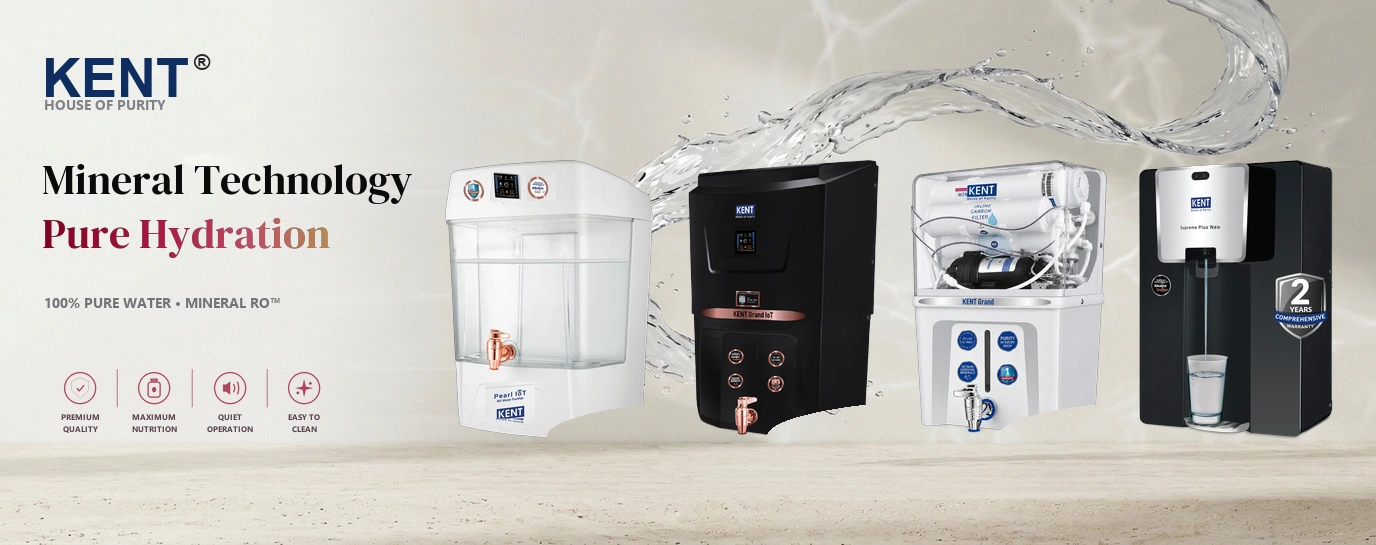
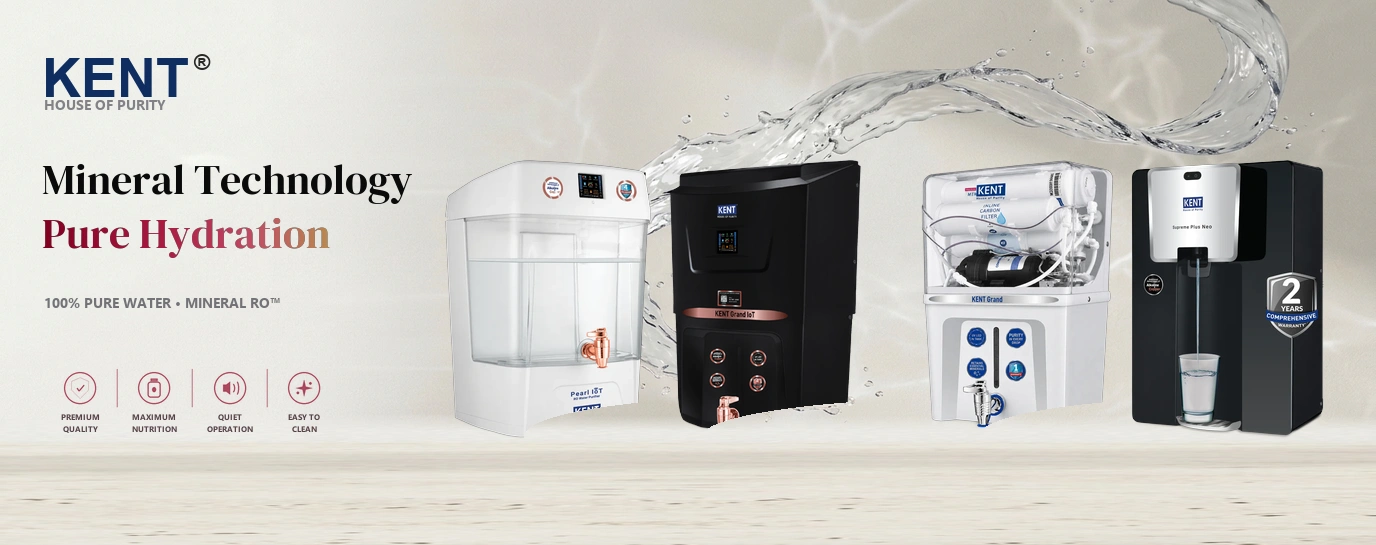
fix(hero): restore 100% wholesome uncropped purifier images on clean travertine floor

Changed region(s): [[0.25, 0.2807, 1.0, 1.0], [0.0938, 0.967, 0.125, 0.9982]]

diff --git a/index.html b/index.html
@@ -140,7 +140,7 @@
                     <div class="detail-stage">
                         <div class="detail-stage-frame detail-stage-frame--poster">
                             <img class="detail-stage-poster" id="heroStagePoster"
-                                src="images/kent-purifiers-banner.webp?v=15.0" alt="KENT Water Purifiers lineup"
+                                src="images/kent-purifiers-banner.webp?v=16.0" alt="KENT Water Purifiers lineup"
                                 fetchpriority="high">
                         </div>
                     </div>

diff --git a/update_banner_tagline.py b/update_banner_tagline.py
@@ -4,37 +4,44 @@ from PIL import Image, ImageDraw, ImageFont
 WIDTH = 1376
 HEIGHT = 545
 
-# 1. Load Photorealistic Studio Background with Crystal Water Arc & Sunlit Caustics
-# Generated directly from user reference with all products, pedestals, and text removed.
+# 1. Background plate with clean travertine floor and realistic mid-air water arc
 plate_path = r'C:\Users\ADMIN\.gemini\antigravity\brain\c228a748-d79c-4230-b18c-69a39bc2446e\purifier_background_plate_flat_floor_1795120218808.jpg'
-if not os.path.exists(plate_path):
-    # Fallback to local copy if available
-    plate_path = 'purifier_background_plate_flat_floor.jpg'
-
 bg_raw = Image.open(plate_path).convert('RGB')
-# Resize smoothly to the target banner dimensions (1376 x 545)
-bg = bg_raw.resize((WIDTH, HEIGHT), Image.Resampling.LANCZOS).convert('RGBA')
+bg = bg_raw.resize((WIDTH, HEIGHT), Image.Resampling.LANCZOS)
 
-# 2. Extract & Place the 4 UNTOUCHED KENT RO Purifier Machines
-p_pearl = Image.open('images/kent-pearl-left.webp').convert('RGBA')
-p1_clean = p_pearl.crop((170, 61, 829, 932))
+# Create a seamless, unblemished travertine floor plane across the bottom (y >= 415)
+# so no water splash cuts through the bottom of the purifier units:
+sample = bg.crop((100, 415, 300, 545))
+stretched_floor = sample.resize((WIDTH, 130), Image.Resampling.LANCZOS)
 
-p_grand = Image.open('p_grand.png').convert('RGBA')
-p_grand_no_phone = p_grand.crop((111, 0, p_grand.width, p_grand.height))
-p2_clean = p_grand_no_phone.crop((0, 9, 259, 387))
+mask = Image.new('L', (WIDTH, 130), 255)
+for y in range(15):
+    alpha = int(255 * (y / 15.0))
+    for x in range(WIDTH):
+        mask.putpixel((x, y), alpha)
 
-p_star = Image.open('p_grandstar.webp').convert('RGBA')
-p3_clean = p_star.crop((315, 70, 923, 938))
+bg.paste(stretched_floor, (0, 415), mask)
+bg = bg.convert('RGBA')
 
-p_sup = Image.open('p_supreme.webp').convert('RGBA')
-p4_clean = p_sup.crop((311, 60, 916, 933))
+# 2. Extract 4 100% WHOLESOME, UNTRUNCATED PURIFIER MACHINES
+# Model 1: Pearl IoT (complete white rounded base down to y=936)
+p1 = Image.open('images/purifier-pearl-wholesome.png').convert('RGBA')
+
+# Model 2: Grand IoT (complete rounded body and full copper tap nozzle, no phone)
+p2 = Image.open('images/purifier-grand-wholesome.png').convert('RGBA')
+
+# Model 3: Grand Star (complete body, left curve, and full chrome/blue tap nozzle down to y=954)
+p3 = Image.open('images/purifier-star-wholesome.png').convert('RGBA')
+
+# Model 4: Supreme Plus Neo (complete body, water glass, and silver drip tray down to y=938)
+p4 = Image.open('images/purifier-supreme-wholesome.png').convert('RGBA')
 
 TARGET_H = 280
 purifiers = [
-    ('Pearl IoT', p1_clean),
-    ('Grand IoT', p2_clean),
-    ('Grand Star', p3_clean),
-    ('Supreme Plus Neo', p4_clean)
+    ('Pearl IoT', p1),
+    ('Grand IoT', p2),
+    ('Grand Star', p3),
+    ('Supreme Plus Neo', p4)
 ]
 
 scaled_purifiers = []
@@ -50,11 +57,11 @@ available_span = 1335 - start_x
 remaining_gap_total = available_span - total_models_w
 gap = remaining_gap_total // 3
 
-# Floor horizon sits at base_y = 440, ensuring generous 160px headroom above machines
+# Floor horizon in bg is at 415; purifiers grounded cleanly at base_y = 440
 base_y = 440
-py = base_y - TARGET_H  # 160px
+py = base_y - TARGET_H  # 160px headroom above machines
 
-# 3. Realistic Soft Pedestal & Contact Shadow Layer on Travertine Floor
+# 3. Soft Realistic Contact Shadow Layer on Travertine Floor
 shadow_layer = Image.new('RGBA', (WIDTH, HEIGHT), (0, 0, 0, 0))
 shadow_draw = ImageDraw.Draw(shadow_layer)
 
@@ -83,7 +90,7 @@ for name, res_im, w in scaled_purifiers:
 banner = Image.alpha_composite(bg, shadow_layer).convert('RGB')
 draw = ImageDraw.Draw(banner)
 
-# 4. Left Typography Lockup: Brand + Website Burgundy/Gold Color Theme Tagline
+# 4. Left Typography Lockup: Brand + Website Burgundy/Gold Color Theme Tagline (NO FULL STOPS)
 LEFT_X = 42
 font_bold = r'C:\Windows\Fonts\segoeuib.ttf'
 font_arial_bold = r'C:\Windows\Fonts\arialbd.ttf'
@@ -97,7 +104,7 @@ draw.text((LEFT_X, 48), 'KENT', font=font_logo_big, fill=(15, 45, 95))
 draw.text((LEFT_X + 152, 50), '®', font=font_logo_reg, fill=(40, 40, 40))
 draw.text((LEFT_X + 2, 94), 'HOUSE OF PURITY', font=font_tag, fill=(130, 130, 135))
 
-# 5. TAGLINE IN DM SERIF DISPLAY WITH WEBSITE BURGUNDY & GOLD COLOR THEME
+# 5. TAGLINE IN DM SERIF DISPLAY (NO FULL STOPS) WITH WEBSITE BURGUNDY & GOLD COLOR THEME
 font_dm_path = 'fonts/DMSerifDisplay-Regular.ttf' if os.path.exists('fonts/DMSerifDisplay-Regular.ttf') else 'DMSerifDisplay-Regular.ttf'
 f_tagline = ImageFont.truetype(font_dm_path, 42)
 
